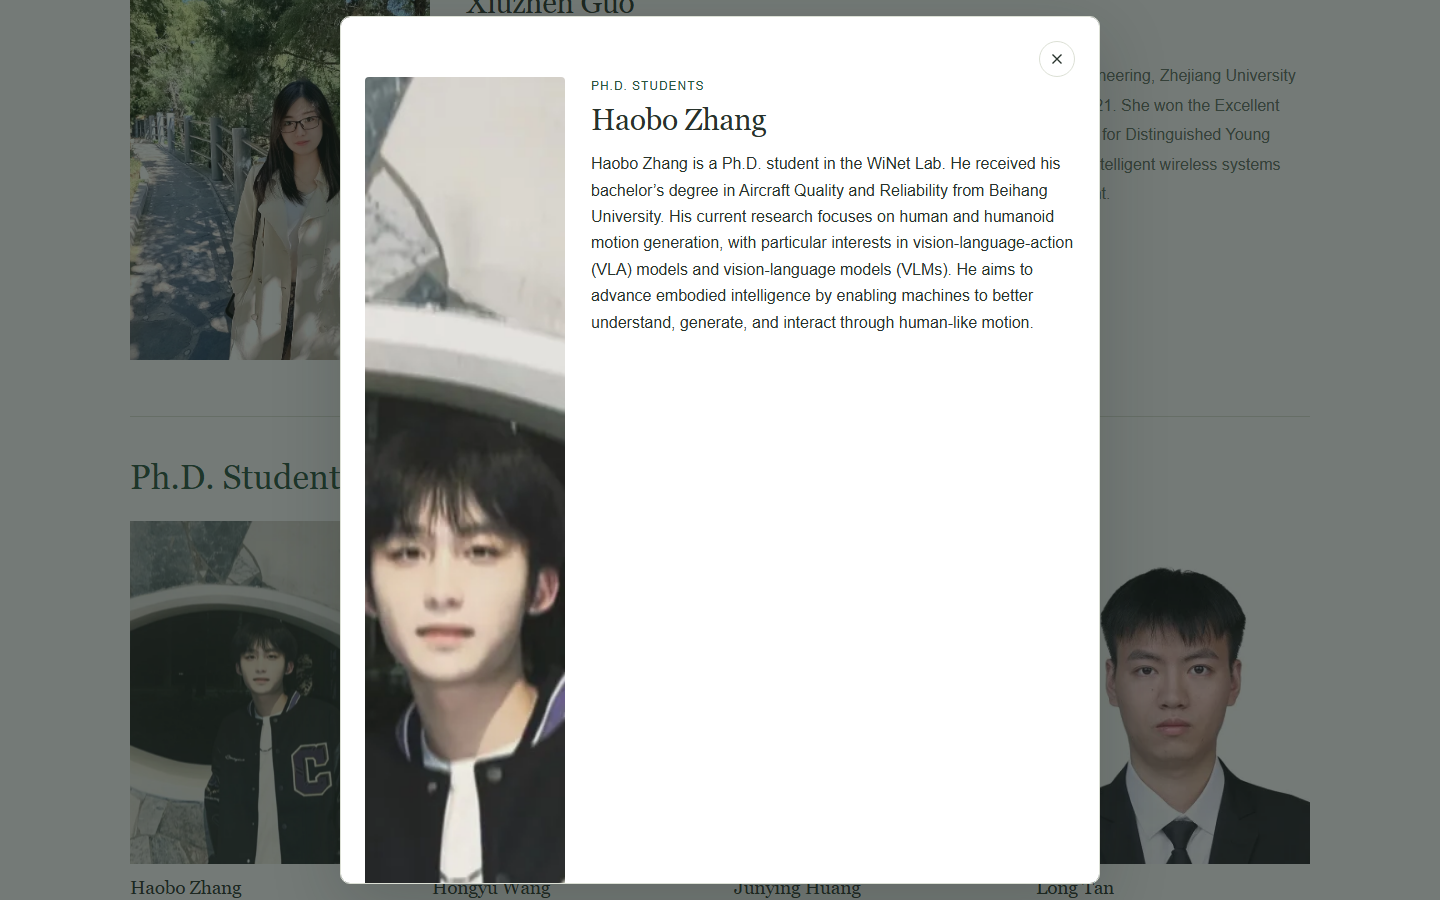
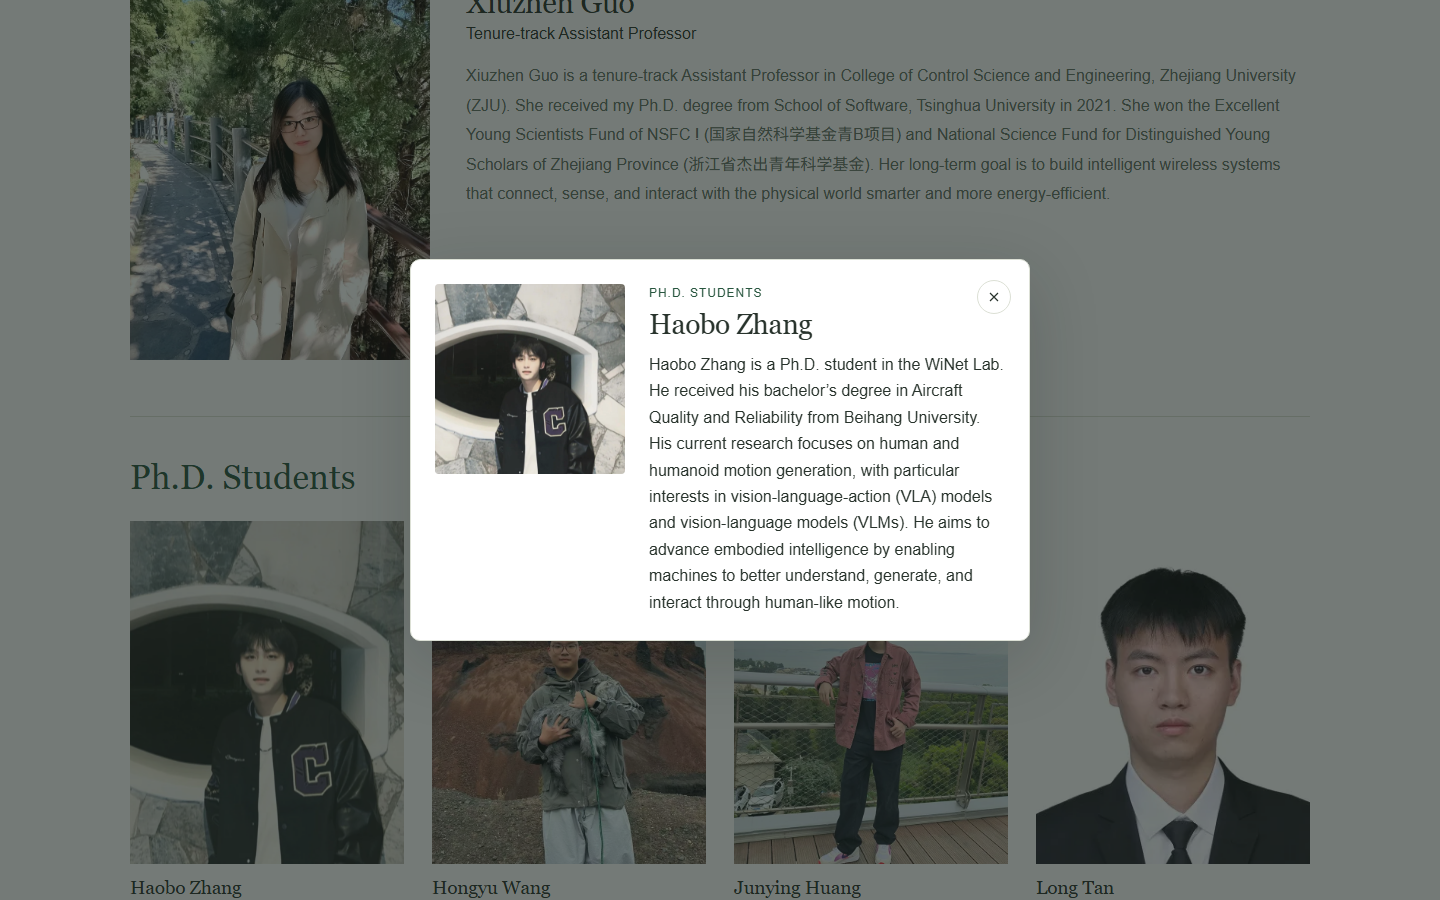
fix: compact profile dialog with natural photo ratios

diff --git a/docs/verification/people-2026-09-22.md b/docs/verification/people-2026-09-22.md
@@ -60,6 +60,12 @@
 
 复验：astro check零错误；两种base构建21页；check-people.mjs扩展后两种base通过——索引15学生卡+PI内联简介（含中文括注）+17个可点击入口、点击学生卡弹窗打开且URL不变、弹窗内容/照片加载、Escape与背景点击关闭、弹窗打开状态axe零违规、320–1440px无溢外、16个静态详情页作为回退全部有效、无失败请求；17项Playwright回归通过；弹窗与首页截图目视通过（[dialog](people-2026-09-22-dialog-desktop.png)）。4321开发预览确认弹窗标记与详情页回退均200。本地Git提交，未push。
 
+## 弹窗紧凑化与照片自然比例（同日第四批）
+
+用户反馈弹窗空白过多、照片比例奇怪。诊断：760px宽弹窗配200px照片列导致文字列过宽且下方留白，照片被强制4:5裁切不自然，独立的关闭按钮行占用垂直空间。修改 `PersonDialog.astro`：弹窗宽度收窄至620px；照片列190px、照片改为**自然宽高比**（移除4:5裁切与width/height属性，object-fit:contain，max-height限制420px/60dvh）；关闭按钮并入文字列首行右侧（分组标签+姓名同行），去掉独立头部行；收紧间距。手机单列时照片限宽190px。
+
+复验：astro check零错误、两种base构建21页、check-people两种base通过、17项测试通过；竖版3:4（Zeyang Yang）与横版4:3（Tianyou Li）照片弹窗截图目视确认比例自然、布局紧凑、图文高度平衡。4321预览200。本地Git提交，未push。
+
 ## 边界与待用户决定
 
 - 未 push；本轮不发布。resources 原始资料不入库。

diff --git a/docs/progress.md b/docs/progress.md
@@ -4,6 +4,8 @@
 
 ## 当前任务：People页面本地实现完成，待用户查看
 
+**2026-09-22第四批改版**：弹窗紧凑化——宽度760→620px、照片改自然比例（去4:5裁切）、关闭按钮并入标题行、收紧间距；解决空白过多与照片比例奇怪问题。复验通过，提交见git log，未push。下方为前三批记录。
+
 **2026-09-22第三批改版**：PI简介恢复默认展示（featured布局，照片/姓名仍可点击）；点击所有卡片改为背景变暗+悬浮窗显示简介（`PersonDialog.astro`，复用Cite的native dialog模式，Escape/背景点击关闭、焦点圈闭归还、Ctrl/Cmd+点击新标签打开），静态详情页保留为无JS回退与直链，有JS时点击不改变URL。复验通过（零错误、21页两种base、弹窗开合/不跳页/axe/回退页全查、17项测试、4321预览），提交见git log，未push。下方为前两批记录。
 
 **2026-09-22第二批改版**：应用户要求改为可点击卡片——列表页仅照片+姓名（PI卡含职称行），16名成员各自生成静态详情页 `/people/{id}/`（返回链接、分组标签、姓名、简介），解决简介长短导致行高不均的问题。纯静态路由无JS。复验通过（零错误、21页两种base、16卡片+16详情页检查、17项测试、4321预览200），提交见git log，未push。下方为首版与更新批次记录。
